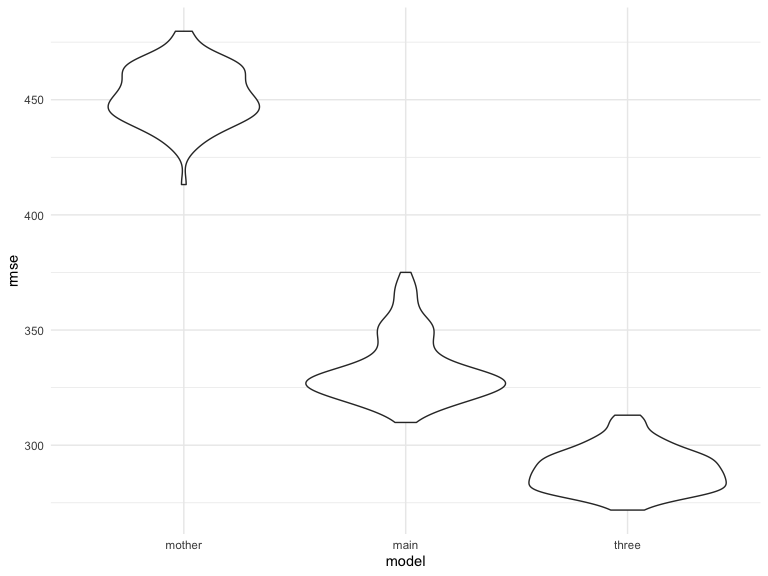
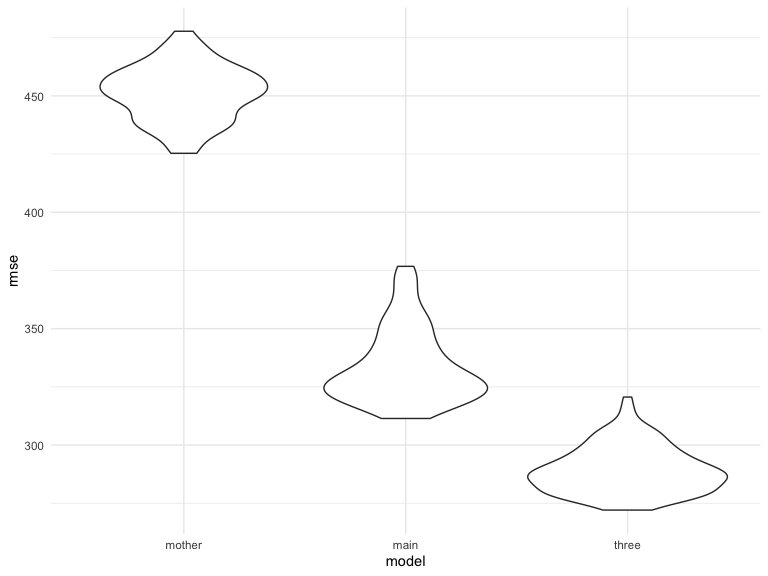
comment

diff --git a/p8105_hw6_xs2447.md b/p8105_hw6_xs2447.md
@@ -31,6 +31,10 @@ values and give no information to differentiate the children.
 
 ## Regression Model
 
+It is reasonable that a baby’s weight is related to the mother’s health
+condition during pregancy. Therefore, I build a model to fit the baby’s
+birthweight to all the variables related the mother during pregancy
+
 ``` r
 fit = lm(bwt ~ delwt + menarche + mheight + momage + mrace + smoken + wtgain, data = birthweight)
 ```
@@ -81,6 +85,9 @@ cv_df %>%
 
 <img src="p8105_hw6_xs2447_files/figure-gfm/unnamed-chunk-5-1.png" width="90%" />
 
+From the violin plot, we can see that the model using mother’s variables
+is not as optimal as the model using baby’s variables.
+
 # Problem 2
 
 ``` r
@@ -103,14 +110,14 @@ weather_df =
 
     ## using cached file: ~/Library/Caches/R/noaa_ghcnd/USW00094728.dly
 
-    ## date created (size, mb): 2021-12-03 22:22:58 (7.616)
+    ## date created (size, mb): 2021-12-04 19:53:18 (7.616)
 
     ## file min/max dates: 1869-01-01 / 2021-12-31
 
 ``` r
 bootstrap = 
   weather_df %>% 
-  modelr::bootstrap(n = 50) %>% 
+  modelr::bootstrap(n = 5000) %>% 
   mutate(
     models = map(strap, ~lm(tmax ~ tmin, data = .x)),
     results1 = map(models, broom::glance),
@@ -145,6 +152,8 @@ bootstrap %>%
 
 <img src="p8105_hw6_xs2447_files/figure-gfm/unnamed-chunk-9-1.png" width="90%" />
 
+We can see that both distributions after bootstrapping is almost normal.
+
 ``` r
 bootstrap_results = 
   bootstrap %>% 
@@ -161,8 +170,8 @@ bootstrap_results
     ## # A tibble: 1 × 4
     ##   lower_rsqr upper_rsqr lower_log upper_log
     ##        <dbl>      <dbl>     <dbl>     <dbl>
-    ## 1      0.893      0.925      1.97      2.05
+    ## 1      0.894      0.927      1.96      2.06
 
-The 95% confidence interval for *r̂*<sup>2</sup> is (0.89273, 0.9248276),
-and 95% confidence interval for
-*l**o**g*(*β̂*<sub>0</sub> \* *β̂*<sub>1</sub>) is (1.9744272, 2.052517)
+The 95% confidence interval for *r̂*<sup>2</sup> is (0.893964,
+0.9272623), and 95% confidence interval for
+*l**o**g*(*β̂*<sub>0</sub> \* *β̂*<sub>1</sub>) is (1.9645862, 2.0576541)
